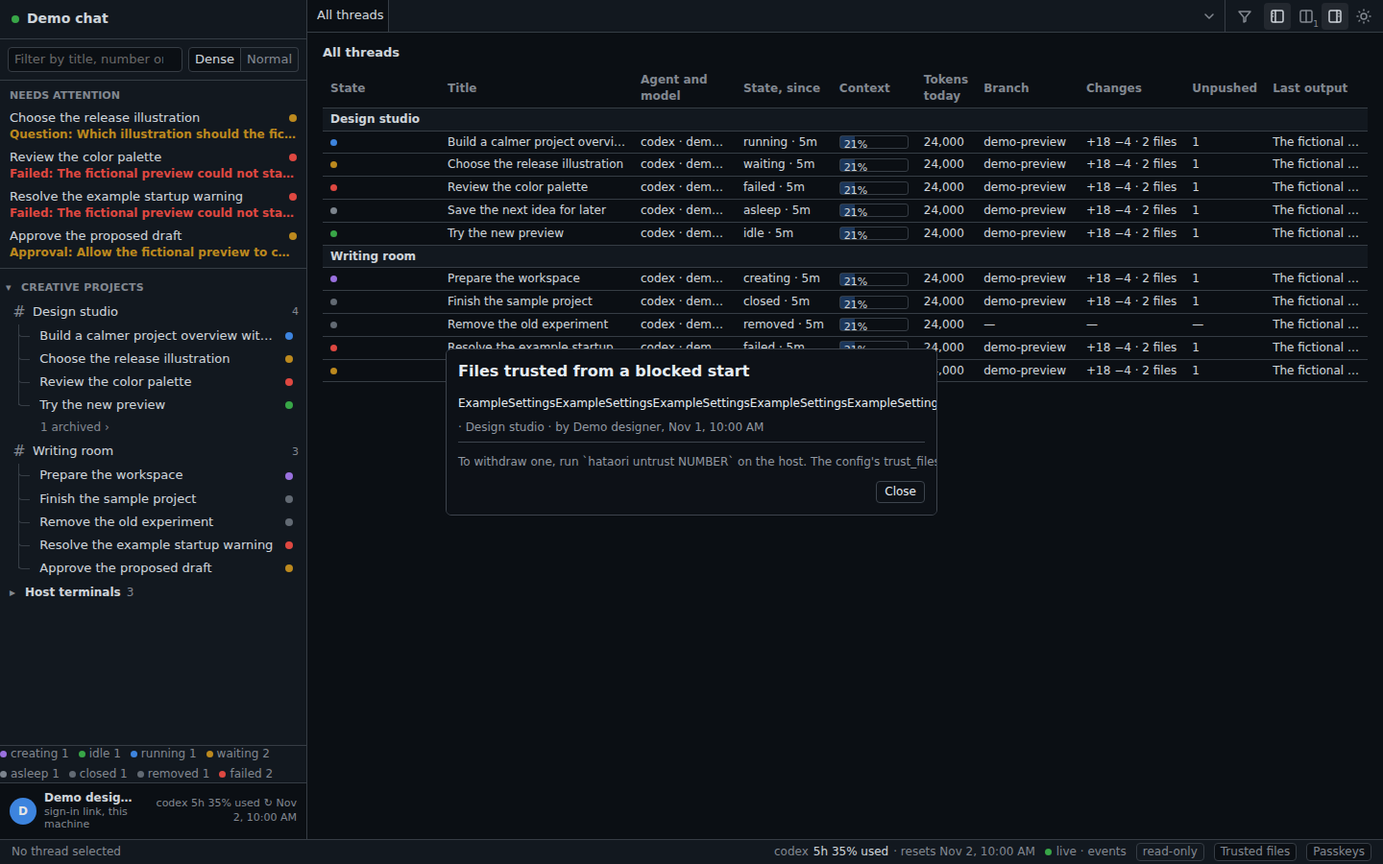
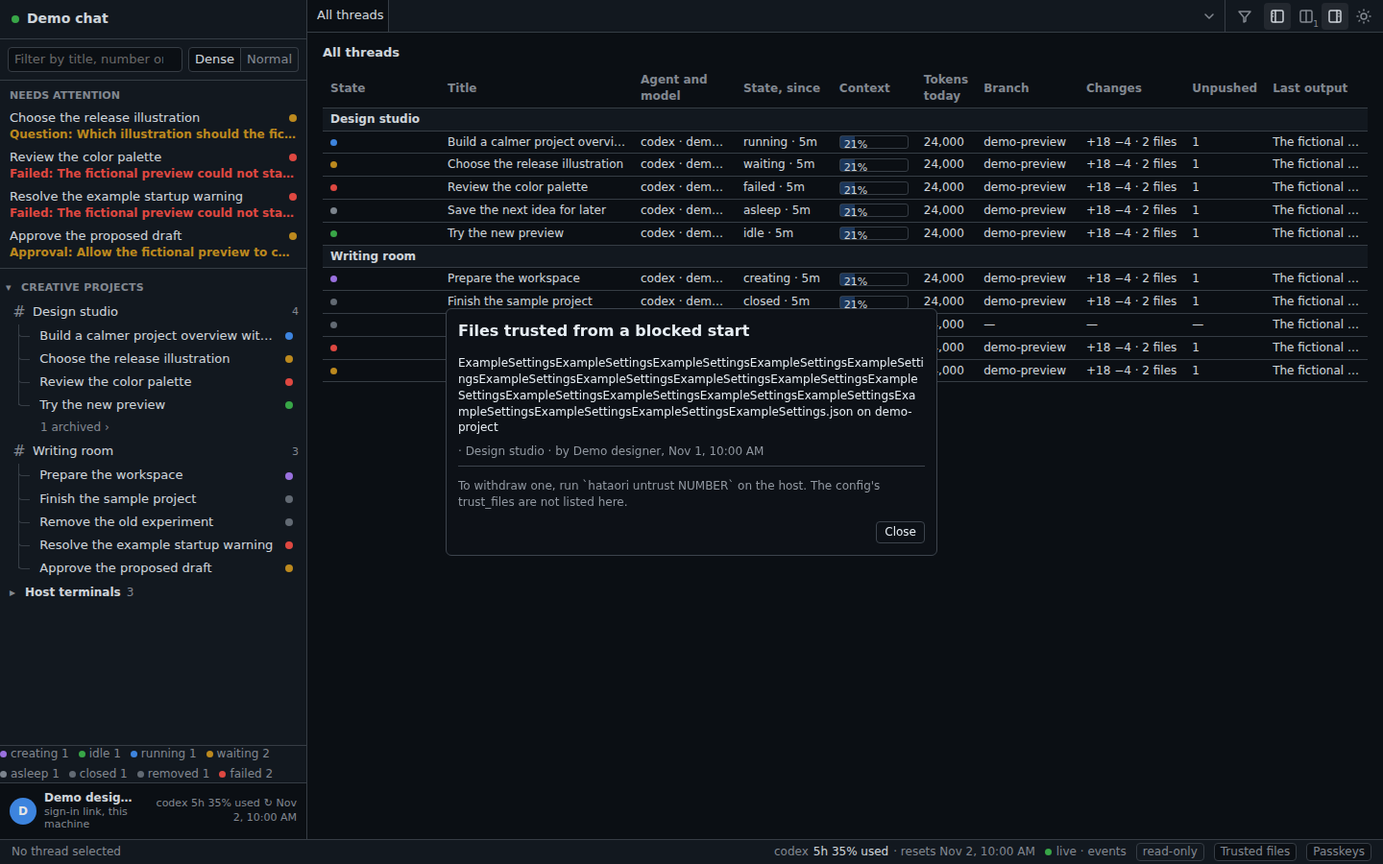
fix: long trusted-file names are clipped in the dialog

Changed region(s): [[0.3125, 0.3422, 0.6875, 0.6222]]

diff --git a/internal/dashboard/page/assets/index-DAMMLb45.css b/internal/dashboard/page/assets/index-DAMMLb45.css
@@ -1,0 +1,1 @@
+.xterm{cursor:text;-webkit-user-select:none;user-select:none;position:relative}.xterm.focus,.xterm:focus{outline:none}.xterm .xterm-helpers{z-index:5;position:absolute;top:0}.xterm .xterm-helper-textarea{opacity:0;z-index:-5;white-space:nowrap;resize:none;border:0;width:0;height:0;margin:0;padding:0;position:absolute;top:0;left:-9999em;overflow:hidden}.xterm .composition-view{color:#fff;white-space:nowrap;z-index:1;background:#000;display:none;position:absolute}.xterm .composition-view.active{display:block}.xterm .xterm-viewport{cursor:default;background-color:#000;position:absolute;inset:0;overflow-y:scroll}.xterm .xterm-screen{position:relative}.xterm .xterm-screen canvas{position:absolute;top:0;left:0}.xterm-char-measure-element{visibility:hidden;line-height:normal;display:inline-block;position:absolute;top:0;left:-9999em}.xterm.enable-mouse-events{cursor:default}.xterm.xterm-cursor-pointer,.xterm .xterm-cursor-pointer{cursor:pointer}.xterm.column-select.focus{cursor:crosshair}.xterm .xterm-accessibility:not(.debug),.xterm .xterm-message{z-index:10;color:#0000;pointer-events:none;position:absolute;inset:0}.xterm .xterm-accessibility-tree:not(.debug) ::selection{color:#0000}.xterm .xterm-accessibility-tree{-webkit-user-select:text;user-select:text;white-space:pre;font-family:monospace}.xterm .xterm-accessibility-tree>div{transform-origin:0;width:fit-content}.xterm .live-region{width:1px;height:1px;position:absolute;left:-9999px;overflow:hidden}.xterm-dim{opacity:1!important}.xterm-underline-1{text-decoration:underline}.xterm-underline-2{-webkit-text-decoration:underline double;text-decoration:underline double}.xterm-underline-3{-webkit-text-decoration:underline wavy;text-decoration:underline wavy}.xterm-underline-4{-webkit-text-decoration:underline dotted;text-decoration:underline dotted}.xterm-underline-5{-webkit-text-decoration:underline dashed;text-decoration:underline dashed}.xterm-overline{text-decoration:overline}.xterm-overline.xterm-underline-1{text-decoration:underline overline}.xterm-overline.xterm-underline-2{-webkit-text-decoration:overline double underline;text-decoration:overline double underline}.xterm-overline.xterm-underline-3{-webkit-text-decoration:overline wavy underline;text-decoration:overline wavy underline}.xterm-overline.xterm-underline-4{-webkit-text-decoration:overline dotted underline;text-decoration:overline dotted underline}.xterm-overline.xterm-underline-5{-webkit-text-decoration:overline dashed underline;text-decoration:overline dashed underline}.xterm-strikethrough{text-decoration:line-through}.xterm-screen .xterm-decoration-container .xterm-decoration{z-index:6;position:absolute}.xterm-screen .xterm-decoration-container .xterm-decoration.xterm-decoration-top-layer{z-index:7}.xterm-decoration-overview-ruler{z-index:8;pointer-events:none;position:absolute;top:0;right:0}.xterm-decoration-top{z-index:2;position:relative}.xterm .xterm-scrollable-element>.scrollbar{cursor:default}.xterm .xterm-scrollable-element>.scrollbar>.scra{cursor:pointer;font-size:11px!important}.xterm .xterm-scrollable-element>.visible{opacity:1;z-index:11;background:0 0;transition:opacity .1s linear}.xterm .xterm-scrollable-element>.invisible{opacity:0;pointer-events:none}.xterm .xterm-scrollable-element>.invisible.fade{transition:opacity .8s linear}.xterm .xterm-scrollable-element>.shadow{display:none;position:absolute}.xterm .xterm-scrollable-element>.shadow.top{width:100%;height:3px;box-shadow:var(--vscode-scrollbar-shadow,#000) 0 6px 6px -6px inset;display:block;top:0;left:3px}.xterm .xterm-scrollable-element>.shadow.left{width:3px;height:100%;box-shadow:var(--vscode-scrollbar-shadow,#000) 6px 0 6px -6px inset;display:block;top:3px;left:0}.xterm .xterm-scrollable-element>.shadow.top-left-corner{width:3px;height:3px;display:block;top:0;left:0}.xterm .xterm-scrollable-element>.shadow.top.left{box-shadow:var(--vscode-scrollbar-shadow,#000) 6px 0 6px -6px inset}:root{--bg:#fff;--fg:#1f2328;--muted:#59636e;--bar:#f6f8fa;--line:#d1d9e0;--accent:#0969da;--lightningcss-light:initial;--lightningcss-dark: ;color-scheme:light}:root[data-theme=dark]{--bg:#0d1117;--fg:#e6edf3;--muted:#9198a1;--bar:#151b23;--line:#3d444d;--accent:#4493f8;--lightningcss-light: ;--lightningcss-dark:initial;color-scheme:dark}@media (prefers-color-scheme:dark){:root:not([data-theme]){--bg:#0d1117;--fg:#e6edf3;--muted:#9198a1;--bar:#151b23;--line:#3d444d;--accent:#4493f8;--lightningcss-light: ;--lightningcss-dark:initial;color-scheme:dark}}*{box-sizing:border-box}html,body,#root{height:100%;margin:0}body{background:var(--bg);color:var(--fg);font:13px/1.4 system-ui,-apple-system,Segoe UI,sans-serif}.shell{flex-direction:column;height:100%;display:flex}.bar{background:var(--bar);border-bottom:1px solid var(--line);align-items:center;gap:12px;padding:6px 12px;display:flex}.title{margin:0;font-size:14px;font-weight:600}.mark{color:var(--muted);border:1px solid var(--line);border-radius:4px;padding:0 6px}.theme{font:inherit;color:var(--fg);border:1px solid var(--line);cursor:pointer;background:0 0;border-radius:4px;margin-left:auto;padding:2px 8px}.theme:focus-visible{outline:2px solid var(--accent);outline-offset:1px}.main{flex:1;padding:16px;overflow:auto}.empty{color:var(--muted)}:root{--st-creating:#8250df;--st-idle:#1a7f37;--st-running:#0969da;--st-waiting:#bf8700;--st-asleep:#8c959f;--st-closed:#6e7781;--st-removed:#6e7781;--st-failed:#cf222e}:root[data-theme=dark]{--st-creating:#ab7df8;--st-idle:#3fb950;--st-running:#4493f8;--st-waiting:#d29922;--st-asleep:#8b949e;--st-closed:#6e7681;--st-removed:#6e7681;--st-failed:#f85149}@media (prefers-color-scheme:dark){:root:not([data-theme]){--st-creating:#ab7df8;--st-idle:#3fb950;--st-running:#4493f8;--st-waiting:#d29922;--st-asleep:#8b949e;--st-closed:#6e7681;--st-removed:#6e7681;--st-failed:#f85149}}.state-creating{--st:var(--st-creating)}.state-idle{--st:var(--st-idle)}.state-running{--st:var(--st-running)}.state-waiting{--st:var(--st-waiting)}.state-asleep{--st:var(--st-asleep)}.state-closed{--st:var(--st-closed)}.state-removed{--st:var(--st-removed)}.state-failed{--st:var(--st-failed)}.body{flex:1;min-height:0;display:flex}.tree{border-right:1px solid var(--line);background:var(--bar);flex-direction:column;flex:none;width:320px;min-height:0;display:flex}.tree-top{border-bottom:1px solid var(--line);gap:6px;padding:8px;display:flex}.filter{min-width:0;font:inherit;color:var(--fg);background:var(--bg);border:1px solid var(--line);border-radius:4px;flex:1;padding:3px 6px}.density{display:flex}.density button{font:inherit;color:var(--muted);border:1px solid var(--line);cursor:pointer;background:0 0;padding:2px 6px}.density button:first-child{border-radius:4px 0 0 4px}.density button:last-child{border-left:none;border-radius:0 4px 4px 0}.density button[aria-pressed=true]{color:var(--fg);background:var(--bg)}.tree-body{flex:1;overflow:auto}.tree h2{text-transform:uppercase;color:var(--muted);margin:0;padding:8px 10px 4px;font-size:11px;font-weight:600}.tree h3{align-items:center;gap:8px;margin:0;padding:4px 10px;font-size:12px;font-weight:600;display:flex}.node-head{cursor:pointer;align-items:center;gap:6px;padding:5px 10px 3px;font-size:12px;font-weight:600;display:flex}.node:focus-visible,.subnode:focus-visible{outline:none}.node:focus-visible>.node-head,.subnode:focus-visible>.subnode-head,.tree .row:focus-visible{outline:2px solid var(--accent);outline-offset:-2px}.subnode-head{color:var(--muted);padding:3px 10px 1px 22px;font-size:12px}.subnode .row{padding-left:34px}.fold-mark{width:10px;color:var(--muted)}.node-count{color:var(--muted);font-weight:400}.node-body .row{padding-left:22px}.scope-name{text-overflow:ellipsis;white-space:nowrap;flex:0 auto;min-width:0;overflow:hidden}.dots{flex-wrap:wrap;flex:0 1000 auto;align-items:center;gap:0 3px;min-width:0;height:7px;display:flex;overflow:hidden}.dot{flex:none}.dots-more{color:var(--muted);flex:none;font-size:11px;font-weight:400}.dot{background:var(--st);border-radius:50%;width:7px;height:7px;display:inline-block}.tree ul{margin:0;padding:0;list-style:none}.row{cursor:pointer;padding:2px 10px}.density-normal .row{padding:6px 10px}.row:hover{background:var(--bg)}.row.selected{background:var(--bg);box-shadow:inset 2px 0 0 var(--accent)}.line1,.line2{white-space:nowrap;align-items:baseline;gap:6px;display:flex;overflow:hidden}.line2{color:var(--muted);padding-left:22px;font-size:12px}.density-normal .line2{display:none}.line2.reported .reported-session,.line2.reported .reported-dir{text-overflow:ellipsis;overflow:hidden}.line2.reported .reported-session{flex:0 auto;max-width:10ch}.line2.reported .reported-dir{flex:auto;min-width:0}.agent-mark{text-align:center;width:16px;color:var(--st);flex:none;font-weight:700}.num{color:var(--muted)}.title,.last,.flag{text-overflow:ellipsis;overflow:hidden}.title{flex:1}.age{color:var(--muted);font-size:12px}.flag,.why{color:var(--st-waiting);font-weight:600}.why{white-space:nowrap;text-overflow:ellipsis;padding-left:22px;font-size:12px;overflow:hidden}.row[data-state=failed] .flag,.row[data-state=failed] .why{color:var(--st-failed)}.row:focus-visible{outline:2px solid var(--accent);outline-offset:-2px}.attention{border-bottom:1px solid var(--line);padding-bottom:4px}.none{color:var(--muted);margin:4px 10px}.counts{border-top:1px solid var(--line);color:var(--muted);flex-wrap:wrap;gap:4px 10px;margin:0;padding:6px 10px;font-size:12px;list-style:none;display:flex}.counts li{align-items:center;gap:4px;display:flex}.status{border-top:1px solid var(--line);background:var(--bar);justify-content:space-between;gap:12px;padding:3px 12px;font-size:12px;display:flex}.status-item,.status-right{white-space:nowrap;align-items:center;gap:10px;display:flex;overflow:hidden}.state-text{color:var(--st)}.limits,.limit,.limit-window{align-items:center;gap:5px;display:flex}.limits{gap:12px}.limit-agent,.limit[data-stale=yes] .limit-window{color:var(--muted)}.clients{align-items:center;gap:12px;display:flex}.client-down{color:var(--st-failed)}.limit-as-of{color:var(--st-waiting,var(--muted))}.muted{color:var(--muted)}.live{color:var(--muted);align-items:center;gap:5px;display:flex}.live-dot{background:var(--st-asleep);border-radius:50%;width:7px;height:7px}.live[data-live=on] .live-dot{background:var(--st-idle)}.signed-out{color:var(--bg);background:var(--st-failed);margin:0;padding:6px 12px}.signed-out,.passkey-offer{flex-wrap:wrap;align-items:center;gap:8px;display:flex}.signed-out p,.passkey-offer p{margin:0}.passkey-offer{border-bottom:1px solid var(--line);background:var(--bar);padding:6px 12px}.signed-out button,.passkey-offer button,.passkeys button,.passkeys-open{font:inherit;color:var(--fg);background:var(--bg);border:1px solid var(--line);cursor:pointer;border-radius:4px;padding:2px 8px}.passkeys-open{color:var(--muted);padding:0 6px;font-size:12px}.passkeys{color:var(--fg);background:var(--bg);border:1px solid var(--line);border-radius:6px;width:min(32rem,100vw - 32px)}.passkeys h2{margin:0 0 8px;font-size:16px}.passkeys ul{margin:0;padding:0;list-style:none}.passkeys li{border-bottom:1px solid var(--line);flex-wrap:wrap;align-items:center;gap:8px;padding:6px 0;display:flex}.passkeys li button{margin-left:auto}.trusts{white-space:normal}.trusts li>span{overflow-wrap:anywhere;min-width:0;max-width:100%}.passkeys-actions{justify-content:flex-end;gap:8px;margin-top:12px;display:flex}.passkey-error{color:var(--st-failed)}.signed-out .passkey-error{color:inherit;font-weight:600}.center{flex-direction:column;flex:1;min-width:0;display:flex}.tabbar{border-bottom:1px solid var(--line);background:var(--bar);flex:none;align-items:stretch;height:34px;display:flex}.tabs{scrollbar-width:none;flex:1;min-width:0;display:flex;overflow-x:auto}.tabs::-webkit-scrollbar{display:none}.tab{white-space:nowrap;border-right:1px solid var(--line);flex:none;align-items:center;max-width:240px;display:flex}.tab.active{background:var(--bg)}.tab-main{white-space:nowrap;min-width:0;height:100%;font:inherit;color:var(--muted);cursor:pointer;background:0 0;border:none;flex:1;align-items:center;gap:6px;padding:0 4px 0 10px;display:flex}.tab.active .tab-main{color:var(--fg)}.tab-title{text-overflow:ellipsis;white-space:nowrap;min-width:0;overflow:hidden}.elapsed,.tab .badge,.tab-operating{white-space:nowrap;flex:none}.elapsed{color:var(--muted);font-size:12px}.badge{color:var(--bg);background:var(--st-waiting);border-radius:8px;padding:0 5px;font-size:11px}.badge-failed{background:var(--st-failed)}.tab-close{visibility:hidden;font:inherit;color:var(--muted);cursor:pointer;background:0 0;border:none;flex:none;padding:2px 8px 2px 2px}.tab.active .tab-close,.tab:hover .tab-close,.tab:focus-within .tab-close{visibility:visible}.tab-close:hover{color:var(--fg)}.tools{flex:none;align-items:center;gap:2px;padding:2px 6px;display:flex}.show{align-items:center;margin-right:6px;display:flex}.show button{font:inherit;color:var(--muted);border:1px solid var(--line);cursor:pointer;background:0 0;padding:2px 8px}.show button:first-child{border-radius:4px 0 0 4px}.show button:last-of-type{border-left:none;border-radius:0 4px 4px 0}.show button[aria-pressed=true]{color:var(--fg);background:var(--bg)}.show button:focus-visible{outline:2px solid var(--accent);outline-offset:-2px}.hidden-count,.hidden-terminals{color:var(--muted);white-space:nowrap;margin-left:6px;font-size:12px}.hidden-sep{color:var(--muted);margin-left:6px;font-size:12px}.show-tool{gap:2px;margin-right:4px}.show-tool .hidden-count{text-overflow:ellipsis;font-variant-numeric:tabular-nums;max-width:5ch;margin-left:0;overflow:hidden}.icon-tool,.show-tool .icon-tool{width:28px;height:28px;font:inherit;color:var(--muted);cursor:pointer;background:0 0;border:none;border-radius:4px;flex:none;justify-content:center;align-items:center;padding:0;display:inline-flex}.icon-tool:hover,.icon-tool[aria-pressed=true],.icon-tool[aria-expanded=true]{color:var(--fg);background:color-mix(in srgb, var(--fg) 9%, transparent)}.tool-icon{flex:none}.split-tool{position:relative}.split-count{background:var(--bar);border-radius:2px;font-size:9px;line-height:11px;position:absolute;bottom:0;right:1px}.tab-picker{border-right:1px solid var(--line);flex:none;align-items:center;padding:0 2px;display:flex;position:relative}.tab-menu{z-index:10;border:1px solid var(--line);background:var(--bg);border-radius:6px;width:min(320px,90vw);max-height:min(400px,70vh);padding:4px;position:absolute;top:100%;right:0;overflow-y:auto;box-shadow:0 4px 16px #0002}.tab-menu button{width:100%;font:inherit;text-align:left;color:var(--fg);text-overflow:ellipsis;white-space:nowrap;cursor:pointer;background:0 0;border:none;border-radius:3px;padding:6px 8px;display:block;overflow:hidden}.tab-menu button:hover,.tab-menu button:focus-visible,.tab-menu button[aria-checked=true]{background:var(--bar)}.tab-menu button:focus-visible,.tab-picker .icon-tool:focus-visible{outline:2px solid var(--accent);outline-offset:-2px}.narrow-show{padding:8px 10px 0}.tab-main:focus-visible,.tab-close:focus-visible,.tools button:focus-visible{outline:2px solid var(--accent);outline-offset:-2px}.panes{flex:1;min-height:0;display:flex}.pane{flex:1;min-width:0;padding:12px 16px;overflow:auto}.pane+.pane{border-left:1px solid var(--line)}.pane-name{margin:0 0 8px;font-size:13px;font-weight:600}.details{border-left:1px solid var(--line);background:var(--bar);flex:none;width:300px;padding:12px;overflow:auto}.pane.active,.pane{flex-direction:column;display:flex}.thread-pane{flex-direction:column;flex:1;min-height:0;display:flex}.terminal-view{flex:1;min-height:0;overflow:auto}.xterm-host{display:inline-block}.terminal-view.fit{flex-direction:column;display:flex;overflow:hidden}.terminal-view.fit .xterm-box{flex:1;min-width:0;min-height:0;display:flex;overflow:auto}.terminal-view.fit .xterm-host{margin:auto;overflow:hidden}.no-process{color:var(--muted);margin:0 0 6px;font-style:italic}.pane-head{flex-wrap:wrap;flex:none;align-items:center;gap:6px 16px;margin:0 0 8px;font-size:13px;display:flex}.pane-state{color:var(--st);white-space:nowrap;align-items:center;gap:6px;font-weight:600;display:inline-flex}.pane-state-dot{background:var(--st);border-radius:50%;width:8px;height:8px}.pane-controls{flex-wrap:wrap;align-items:center;gap:8px;display:flex}.pane-head .view-switch,.pane-head .attach,.pane-head .stop{margin:0}.view-switch{flex:none;margin:0 0 8px;display:flex}.view-switch button{font:inherit;color:var(--muted);border:1px solid var(--line);cursor:pointer;background:0 0;padding:2px 10px;font-size:12px}.view-switch button:first-child{border-radius:4px 0 0 4px}.view-switch button:last-child{border-left:none;border-radius:0 4px 4px 0}.view-switch button[aria-pressed=true]{color:var(--fg);background:var(--bar)}.view-switch button:focus-visible{outline:2px solid var(--accent);outline-offset:-2px}.conversation{flex:1;min-height:0;font-size:13px;overflow:auto}.conv-list{margin:0;padding:0;list-style:none}.conv-top,.conv-empty{min-height:1.5em;color:var(--muted);margin:4px 0 8px;font-size:12px}.conv-entry{margin:0 0 10px}.conv-head{align-items:baseline;gap:8px;font-size:12px;display:flex}.conv-who{font-weight:600}.conv-time{color:var(--muted)}.conv-text{white-space:pre-wrap;overflow-wrap:anywhere}.conv-agent .conv-text{font:12px/1.5 ui-monospace,SFMono-Regular,Menlo,Consolas,monospace}.conv-input,.conv-answer{border-left:3px solid var(--accent);padding-left:8px}.conv-request{border-left:3px solid var(--st-waiting);padding-left:8px}.conv-choices,.withheld{color:var(--muted);font-style:italic}.conv-turn{border-top:1px solid var(--line);color:var(--muted);margin:12px 0 8px;padding-top:4px;font-size:12px}.conv-turn-end{border-top:none;margin-top:0}.conv-tool{color:var(--muted);margin:0 0 4px;font-size:12px}.conv-tool summary{cursor:pointer}.conv-tool-detail{margin:2px 0 4px 16px}.all-threads{border-collapse:collapse;width:100%;font-size:12px}.all-threads th,.all-threads td{text-align:left;white-space:nowrap;border-bottom:1px solid var(--line);padding:3px 8px}.all-threads thead th{background:var(--bg);color:var(--muted);font-weight:600;position:sticky;top:0}.all-threads .scope-row th{background:var(--bar);white-space:normal;overflow-wrap:anywhere;font-weight:600}.all-threads tbody tr[data-thread]{cursor:pointer}.all-threads tbody tr[data-thread]:hover,.all-threads tbody tr.selected{background:var(--bar)}.all-threads tbody tr[data-thread]:focus-within{outline:2px solid var(--accent);outline-offset:-2px}.all-threads thead th{white-space:normal}.all-threads td[data-col=title],.all-threads td[data-col=agent],.all-threads td[data-col=branch],.all-threads td[data-col=last]{text-overflow:ellipsis;max-width:0;overflow:hidden}.all-threads [data-col=title]{width:70%}.all-threads td[data-col=agent],.all-threads td[data-col=branch],.all-threads td[data-col=last]{width:1%;min-width:14ch}.table-empty{color:var(--muted);padding:24px 8px}.table-empty p{margin:0 0 10px}.ctx-bar{border:1px solid var(--line);vertical-align:middle;border-radius:3px;width:72px;height:14px;display:inline-block;position:relative}.ctx-fill{background:var(--st-running);opacity:.35;position:absolute;inset:0 auto 0 0}.ctx-text{padding-left:4px;font-size:11px;position:relative}.row-open{font:inherit;color:inherit;cursor:pointer;background:0 0;border:none;padding:0}.row-open:focus-visible{outline:2px solid var(--accent);outline-offset:1px}.details-body section{margin-bottom:14px}.details-body h3{text-transform:uppercase;color:var(--muted);margin:0 0 6px;font-size:11px;font-weight:600}.details-body h4{margin:6px 0 2px;font-size:12px;font-weight:600}.details-body dl{margin:0}.field{gap:8px;padding:1px 0;display:flex}.field dt{width:120px;color:var(--muted);flex:none}.field dd{overflow-wrap:anywhere;min-width:0;margin:0}.details-top{border:1px solid var(--st-waiting);border-radius:4px;padding:8px}.details-top.failure{border-color:var(--st-failed)}.details-top p{white-space:pre-wrap;margin:0}.choices{margin:0;padding-left:18px}.recent{margin:0;padding:0;font-size:12px;list-style:none}.recent li{gap:6px;display:flex}.recent time{color:var(--muted);flex:none}.recent-line{overflow-wrap:anywhere}.narrow-body{flex:1;min-width:0;min-height:0;overflow-y:auto}.narrow-list.tree{background:var(--bg);border-right:none;width:auto}.narrow-list section,.narrow-list details{border-bottom:1px solid var(--line)}.narrow-list summary{color:var(--muted);cursor:pointer;padding:8px 10px;font-size:12px;font-weight:600}.narrow-list .row{padding:6px 10px}.narrow-thread{min-width:0;padding:8px 10px}.narrow-bar{align-items:center;gap:8px;min-width:0;margin-bottom:8px;display:flex}.narrow-back{font:inherit;color:var(--fg);background:var(--bar);border:1px solid var(--line);cursor:pointer;border-radius:4px;flex:none;padding:4px 10px}.narrow-title{text-overflow:ellipsis;white-space:nowrap;min-width:0;margin:0;font-size:14px;overflow:hidden}.narrow-pane{max-width:100%;margin:8px 0 14px;overflow-x:auto}.narrow-pane .terminal-view{max-width:100%;overflow-x:auto}.narrow-pane .conversation{max-height:70vh}.shell.narrow .status{flex-wrap:wrap}.shell.narrow .status-item,.shell.narrow .status-right,.shell.narrow .clients,.shell.narrow .limits,.shell.narrow .limit{white-space:normal;flex-wrap:wrap;min-width:0;overflow:visible}.shell.narrow .details-top{overflow-wrap:anywhere}.shell.narrow .field dt{width:40%}.host-row .title{flex:1}.host-note{color:var(--muted);margin:0 0 8px;font-style:italic}.host-operable{flex-direction:column;flex:1;min-height:0;display:flex}.operate,.attach{align-items:center;gap:8px;margin:0 0 6px;font-size:13px;display:flex}.operate [role=switch]{font:inherit;border:1px solid var(--line);border-radius:10px;padding:0 10px}.attach [role=switch]{font:inherit;color:var(--fg);border:1px solid var(--fg);cursor:pointer;background:0 0;border-radius:4px;padding:1px 10px}.operate [role=switch][aria-checked=true],.attach [role=switch][aria-checked=true],.mark.operating,.tab-operating{color:var(--bg);background:var(--st-running);border-color:var(--st-running)}.operating{font-weight:600}.tab-operating{border-radius:8px;padding:0 5px;font-size:11px}.operate-end,.attach-note{color:var(--muted)}.terminal-view{position:relative}.type-hint{z-index:10;pointer-events:none;justify-content:center;display:flex;position:absolute;top:8px;left:8px;right:8px}.type-hint button{pointer-events:auto;font:inherit;width:max-content;max-width:100%;color:var(--fg);background:var(--bg);border:1px solid var(--fg);cursor:pointer;border-radius:4px;padding:4px 12px;font-size:13px;box-shadow:0 2px 8px #00000040}.terminal-view[data-typing=on] .xterm-box:focus-within,.terminal-view[data-operating=on] .xterm-box{outline:2px solid var(--st-running);outline-offset:-2px}.node .node .node-head{padding-left:18px}.node .node .row,.node>.node-body>.chan{padding-left:22px}.chat-only{opacity:.55}.chan{padding:3px 10px 1px;font-size:12px;font-weight:600}.chan-head{align-items:center;gap:6px;display:flex}.chan-head .fold-mark{cursor:pointer}.chan>ul>.row{padding-left:22px;font-weight:400}.chat-link{color:inherit;text-overflow:ellipsis;white-space:nowrap;text-decoration:none;display:block;overflow:hidden}a.chat-link:hover{text-decoration:underline}.chan:focus-visible,.tree .row.chat-only:focus-visible{outline:2px solid var(--accent);outline-offset:-2px}.input-box{flex:none;margin-top:6px;font-size:13px}.box-row{align-items:stretch;gap:6px;display:flex}.box-row textarea{resize:vertical;min-width:0;font:inherit;color:var(--fg);background:var(--bg);border:1px solid var(--line);border-radius:4px;flex:1;padding:4px 6px}.box-send{font:inherit}.box-note,.box-refused{color:var(--muted);margin:0 0 4px}.box-refused{color:var(--st-failed)}.answers{flex:none;margin-top:6px;font-size:13px}.answers-text{white-space:pre-wrap;margin:0 0 4px}.answers-row{flex-wrap:wrap;align-items:center;gap:6px;display:flex}.answers-row button,.answers-field button{font:inherit}.answers-check{align-items:center;gap:4px;display:inline-flex}.answers-field{gap:6px;margin-top:6px;display:flex}.answers-field textarea{resize:vertical;min-width:0;font:inherit;color:var(--fg);background:var(--bg);border:1px solid var(--line);border-radius:4px;flex:1;padding:4px 6px}.failed-start{border:1px solid var(--line);border-left:3px solid var(--st-failed);border-radius:4px;flex:none;margin:0 0 6px;padding:6px 8px;font-size:13px}.failed-start dl{margin:0}.failed-start dt{color:var(--muted);font-size:12px}.failed-start dd{overflow-wrap:anywhere;margin:0 0 6px}.failed-start-text{white-space:pre-wrap;max-height:8em;overflow:auto}.failed-start .link{color:inherit;font:inherit;cursor:pointer;background:0 0;border:none;padding:0;text-decoration:underline}.start-chosen{color:var(--muted);flex:none;margin:0 0 6px}.stop{flex-wrap:wrap;align-items:center;gap:8px;margin:0 0 6px;font-size:13px;display:flex}.stop button{font:inherit}.stop-confirm{flex-wrap:wrap;align-items:center;gap:6px;display:inline-flex}.stop-button{color:var(--fg);border:1px solid var(--fg);cursor:pointer;background:0 0;border-radius:4px;padding:1px 10px}.stop [data-stop-yes]{color:var(--bg);background:var(--fg);border:1px solid var(--fg);cursor:pointer;border-radius:4px}.tree{--rail:var(--line);--hover:color-mix(in srgb, var(--fg) 7%, transparent);--picked:color-mix(in srgb, var(--fg) 12%, transparent);--mono:ui-monospace, SFMono-Regular, Menlo, Consolas, monospace;--hash-pad:12px;--hash-w:16px;--rail-x:calc(var(--hash-pad) + var(--hash-w) / 2);--rail-w:1.5px;--elbow-y:12px}.server-bar{border-bottom:1px solid var(--line);flex-wrap:wrap;gap:4px 12px;padding:10px 12px;font-size:14px;font-weight:700;display:flex}.server{align-items:center;gap:8px;min-width:0;display:flex}.server-name{text-overflow:ellipsis;white-space:nowrap;overflow:hidden}.conn-dot{background:var(--st-failed);border-radius:50%;flex:none;width:8px;height:8px}.server[data-connected=yes] .conn-dot{background:var(--st-idle)}.tree .node-group>.node-head{letter-spacing:.02em;text-transform:uppercase;color:var(--muted);padding:12px 8px 4px 6px;font-size:11px;font-weight:600}.tree .node-channel>.node-head,.tree .chan-head{padding:4px 8px 4px var(--hash-pad);border-radius:4px;font-size:13px;font-weight:500}.node-channel>.node-head:hover{background:var(--hover)}.hash{width:var(--hash-w);text-align:center;color:var(--muted);flex:none;font-size:16px;font-weight:400;line-height:1}.awake{color:var(--muted);flex:none;margin-left:auto;font-size:11px;font-weight:400}.chan,.node>.node-body>.chan{padding:0;font-size:13px}.chan-head .hash{cursor:pointer}.row:has(>.box){padding:0}:is(.row:has(>.box):hover,.row.selected:has(>.box)){box-shadow:none;background:0 0}.row>.box{border-radius:4px;padding:3px 10px}.row:hover>.box{background:var(--hover)}.row.selected>.box{background:var(--picked);box-shadow:inset 2px 0 0 var(--accent)}.tree .row:has(>.box){padding:0}.node-body .row>.box{padding-left:22px}.row>.box>.why,.row>.box>.line2{padding-left:0}.row .line1 .title{font-size:13px;font-weight:400}.row.selected .line1 .title{font-weight:600}.line1 .num{font-family:var(--mono);flex:none;font-size:11px}.line1 .dot{flex:none;align-self:center;width:8px;height:8px}.row[data-thread] .line2{display:none}.density-normal .row[data-thread] .line2{display:flex}.chat-only>.box{align-items:center;gap:6px;display:flex}.chat-only>.box>.chat-link{flex:1;min-width:0}.opens-in-chat{color:var(--muted);flex:none;font-size:11px}.tree .rail>.on-rail{margin-left:calc(var(--rail-x) - var(--rail-w) / 2);padding:0 6px 0 14px;position:relative}.tree .rail>.on-rail>.box{padding:3px 8px}.tree .rail>.on-rail:before{content:"";border-left:var(--rail-w) solid var(--rail);position:absolute;top:0;bottom:0;left:0}.tree .rail>.on-rail.rail-end:before{height:var(--elbow-y);bottom:auto}.tree .rail>.on-rail:after{content:"";left:0;top:calc(var(--elbow-y) - 6px);border-left:var(--rail-w) solid var(--rail);border-bottom:var(--rail-w) solid var(--rail);border-bottom-left-radius:4px;width:11px;height:6px;position:absolute}.tree .rail>.on-rail.selected:after{border-color:var(--accent)}.archived-row{margin-left:calc(var(--rail-x) + 14px);color:var(--muted);cursor:pointer;border-radius:4px;padding:3px 8px;font-size:12px}.archived-row:hover{background:var(--hover)}.archived-row:focus-visible{outline:2px solid var(--accent);outline-offset:-2px}.me-bar{border-top:1px solid var(--line);background:var(--bg);align-items:center;gap:8px;padding:8px 10px;font-size:12px;display:flex}.avatar{background:var(--accent);color:#fff;border-radius:50%;flex:none;place-items:center;width:28px;height:28px;font-weight:700;display:grid}.who{flex-direction:column;min-width:0;line-height:1.25;display:flex}.me-name{text-overflow:ellipsis;white-space:nowrap;font-weight:600;overflow:hidden}.me-how{color:var(--muted);font-size:11px}.me-usage{color:var(--muted);text-align:right;flex-direction:column;align-items:flex-end;margin-left:auto;font-size:11px;line-height:1.35;display:flex}.usage-resets{margin-left:4px}

diff --git a/internal/dashboard/page/index.html b/internal/dashboard/page/index.html
@@ -5,8 +5,8 @@
     <meta name="viewport" content="width=device-width, initial-scale=1" />
     <meta name="color-scheme" content="light dark" />
     <title></title>
-    <script type="module" crossorigin src="/assets/index-NyyIGbo2.js"></script>
-    <link rel="stylesheet" crossorigin href="/assets/index-DRhHQ53q.css">
+    <script type="module" crossorigin src="/assets/index-DGTi2cIF.js"></script>
+    <link rel="stylesheet" crossorigin href="/assets/index-DAMMLb45.css">
   </head>
   <body>
     <div id="root"></div>

diff --git a/web/src/styles.css b/web/src/styles.css
@@ -622,6 +622,10 @@ body {
   margin-left: auto;
 }
 
+.trusts {
+  white-space: normal;
+}
+
 .trusts li > span {
   min-width: 0;
   max-width: 100%;

diff --git a/docs/notes/dashboard-1018/README.md b/docs/notes/dashboard-1018/README.md
@@ -2,7 +2,7 @@
 
 A long fictional trusted-file name extends outside the modal content area and is clipped at both desktop and phone widths.
 
-Allow trusted-file list text to shrink and wrap within each modal row, preserving the complete repository, file name and attribution. Modal actions and data stay unchanged.
+Reset the trusted-files dialog’s inherited desktop footer nowrap, then allow file/repository and attribution spans to shrink and wrap. All text is retained and modal actions/data stay unchanged.
 
 ## Evidence
 
@@ -31,6 +31,6 @@ Only sizing/spacing or overflow containment changes; no new layout structure or 
 
 Pinned Node install/check (173 tests)/build, gofmt, go vet and focused page tests pass. Baseline modal content measured 1,966 px inside a 510 px desktop dialog and 1,863 px inside a 356 px phone dialog. The fixed dialog contains its text at both widths/themes. Normal and long-name captures are included. No local tmux tests.
 
-Fresh independent Codex review: no findings.
+Fresh independent Codex review: no findings after an independent follow-up reviewed the desktop nowrap inheritance correction; all eight after images and measurements were regenerated.
 
 Concurrency: Open PRs #1028, #1027, #1026, #1013 share styles.css/generated page files; each finding uses a separate source hunk and starts from current main. Old #990 shares CSS but is merged; remote branches were checked before the source edit.
